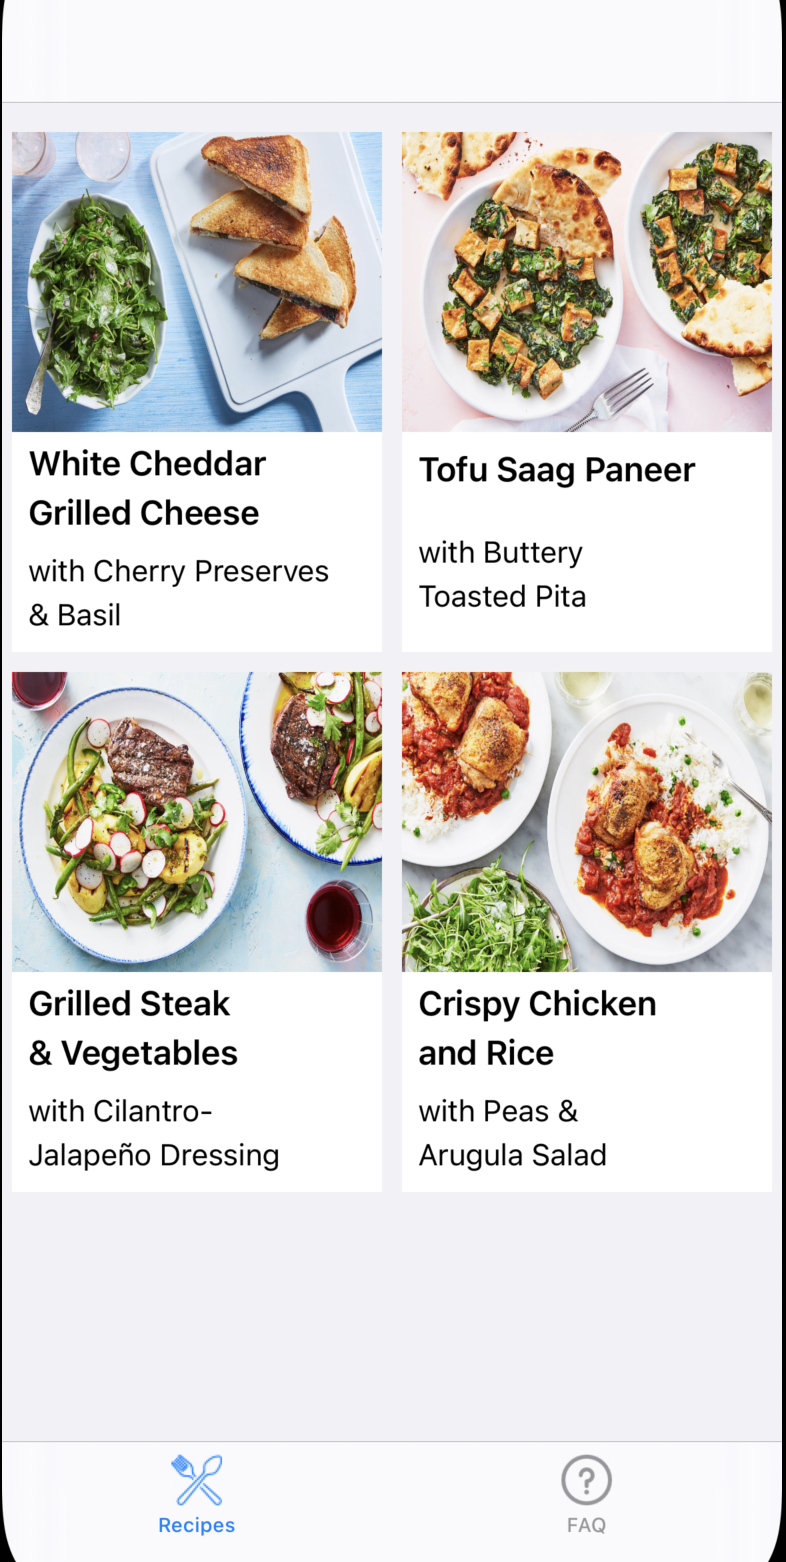
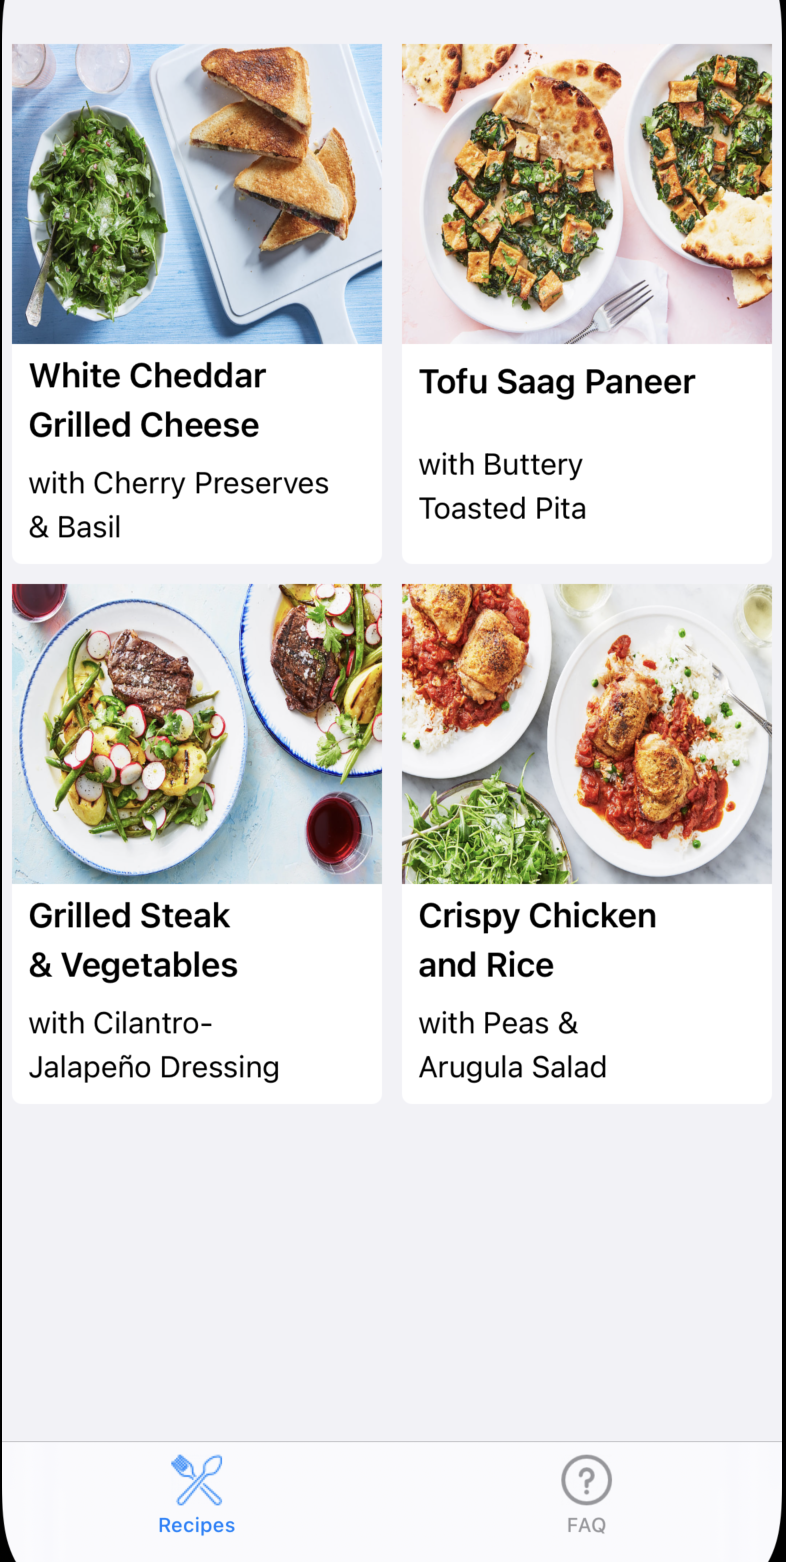
fix: expand layout issue

diff --git a/Marley Spoon/Modules/FAQScene/FAQSceneViewController.swift b/Marley Spoon/Modules/FAQScene/FAQSceneViewController.swift
@@ -23,6 +23,17 @@ class FAQSceneViewController: UIViewController {
         setUI()
     }
     
+    override func viewWillAppear(_ animated: Bool) {
+        super.viewWillAppear(animated)
+        navigationController?.setNavigationBarHidden(true, animated: animated)
+    }
+
+    override func viewWillDisappear(_ animated: Bool) {
+        super.viewWillDisappear(animated)
+        navigationController?.setNavigationBarHidden(false, animated: animated)
+    }
+    
+    
     func setUI() {
         showProgess()
         self.interactor?.getFAQs()
@@ -54,8 +65,15 @@ extension FAQSceneViewController: UITableViewDelegate, UITableViewDataSource {
                                      id: item.id)
     }
     
-    func tableView(_ tableView: UITableView, titleForHeaderInSection section: Int) -> String? {
-        return sectionItems[section].title
+    
+    func tableView(_ tableView: UITableView, viewForHeaderInSection section: Int) -> UIView? {
+        let headerView = FAQHeaderView(frame: CGRect(x: 0, y: 0, width: tableView.frame.width, height: 50))
+        headerView.setTitle(title:sectionItems[section].title)
+        return headerView
+    }
+    
+    func tableView(_ tableView: UITableView, heightForHeaderInSection section: Int) -> CGFloat {
+        return 50
     }
     
 }

diff --git a/Marley Spoon/Modules/FAQScene/Custom/FAQHeaderView.swift b/Marley Spoon/Modules/FAQScene/Custom/FAQHeaderView.swift
@@ -1,0 +1,45 @@
+//
+//  FAQHeaderView.swift
+//  Marley Spoon
+//
+//  Created by Ahmed Naser on 19/09/2021.
+//
+
+import UIKit
+
+class FAQHeaderView: UIView {
+    @IBOutlet var contentView: UIView!
+    @IBOutlet weak var headerLabel: UILabel!
+
+    
+    override init(frame: CGRect) {
+        super.init(frame: frame)
+        setupUI()
+    }
+    
+    required init?(coder: NSCoder) {
+        super.init(coder: coder)
+        setupUI()
+    }
+    
+    private func setupUI() {
+        contentView = loadViewFromNib()
+        contentView.frame = bounds
+        contentView.autoresizingMask = [.flexibleWidth, .flexibleHeight]
+        contentView.translatesAutoresizingMaskIntoConstraints = true
+        addSubview(contentView)
+    }
+    
+    func setTitle(title: String) {
+        self.headerLabel.text = title
+    }
+    
+    
+    private func loadViewFromNib() -> UIView {
+        let bundle = Bundle(for: type(of:self))
+        let nib = UINib(nibName: String(describing: type(of:self)), bundle: bundle)
+        let nibView = nib.instantiate(withOwner: self, options: nil).first as! UIView
+        return nibView
+    }
+    
+}

diff --git a/Marley Spoon/Modules/FAQScene/Cell/FAQSceneTableViewCell.swift b/Marley Spoon/Modules/FAQScene/Cell/FAQSceneTableViewCell.swift
@@ -11,11 +11,15 @@ class FAQSceneTableViewCell: UITableViewCell {
     @IBOutlet weak var questionLabel: UILabel!
     @IBOutlet weak var answerLabel: UILabel!
     @IBOutlet weak var arrowImage: UIImageView!
+    @IBOutlet weak var cellView: UIView!
     
     static let identifier = "FAQSceneTableViewCell"
     let arrowUp = "arrowUp"
     let arrowDown = "arrowDown"
 
+    override func awakeFromNib() {
+        self.cellView.layer.cornerRadius = 5
+    }
     func configure(item: FAQScene.FAQViewSectionItem) {
         self.questionLabel.text = item.question
         self.answerLabel.text = item.answer

diff --git a/Marley Spoon/Modules/Recipe/RecipeScene/RecipeSceneViewController.swift b/Marley Spoon/Modules/Recipe/RecipeScene/RecipeSceneViewController.swift
@@ -24,6 +24,16 @@ class RecipeSceneViewController: UIViewController {
         initUI()
     }
     
+    override func viewWillAppear(_ animated: Bool) {
+        super.viewWillAppear(animated)
+        navigationController?.setNavigationBarHidden(true, animated: animated)
+    }
+
+    override func viewWillDisappear(_ animated: Bool) {
+        super.viewWillDisappear(animated)
+        navigationController?.setNavigationBarHidden(false, animated: animated)
+    }
+    
     func initUI() {
         showProgess()
         interactor?.getRecipes()

diff --git a/Marley Spoon/Modules/Recipe/RecipeScene/Cell/RecipeCollectionViewCell.swift b/Marley Spoon/Modules/Recipe/RecipeScene/Cell/RecipeCollectionViewCell.swift
@@ -11,8 +11,12 @@ class RecipeCollectionViewCell: UICollectionViewCell {
     @IBOutlet weak var recipeImageView: UIImageView!
     @IBOutlet weak var recipeTitleLabel: UILabel!
     @IBOutlet weak var recipeSubTitleLabel: UILabel!
+    @IBOutlet weak var cellView: UIView!
     static let identifier = "RecipeCollectionViewCell"
     
+    override func awakeFromNib() {
+        self.cellView.layer.cornerRadius = 5
+    }
     
     func configure(recipe: RecipeScene.ViewModel) {
         self.recipeImageView.image = recipe.image
